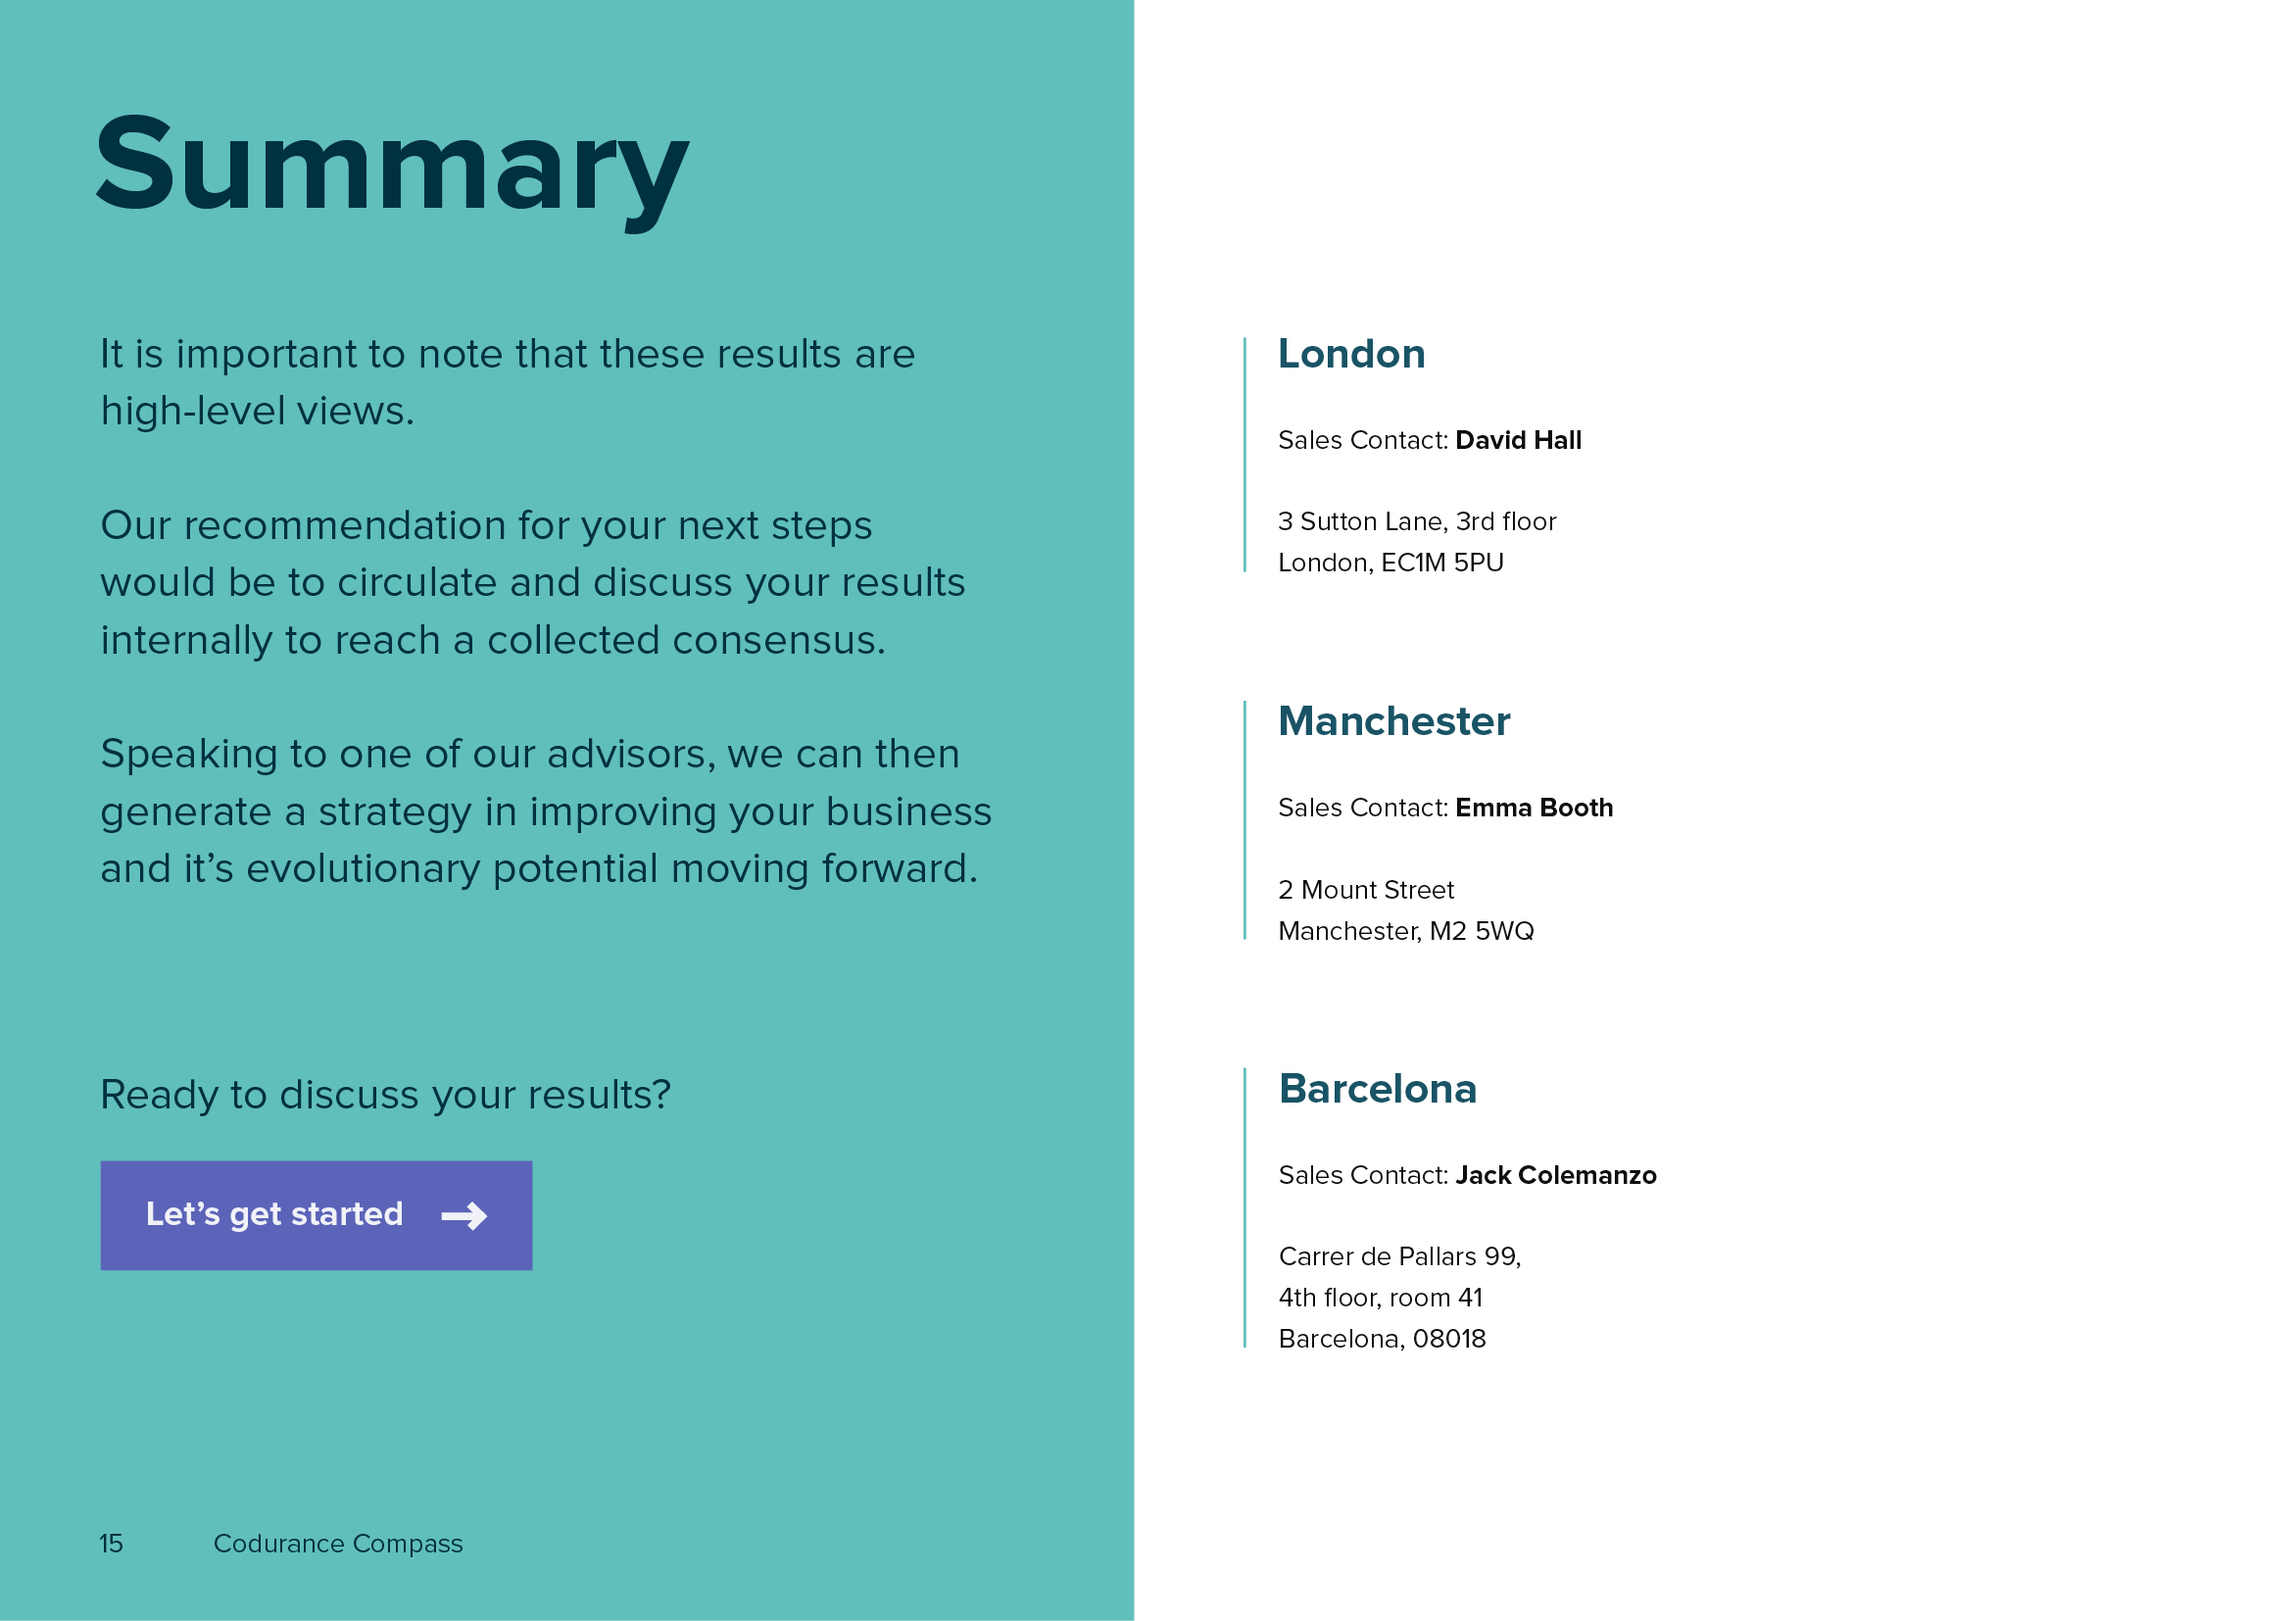
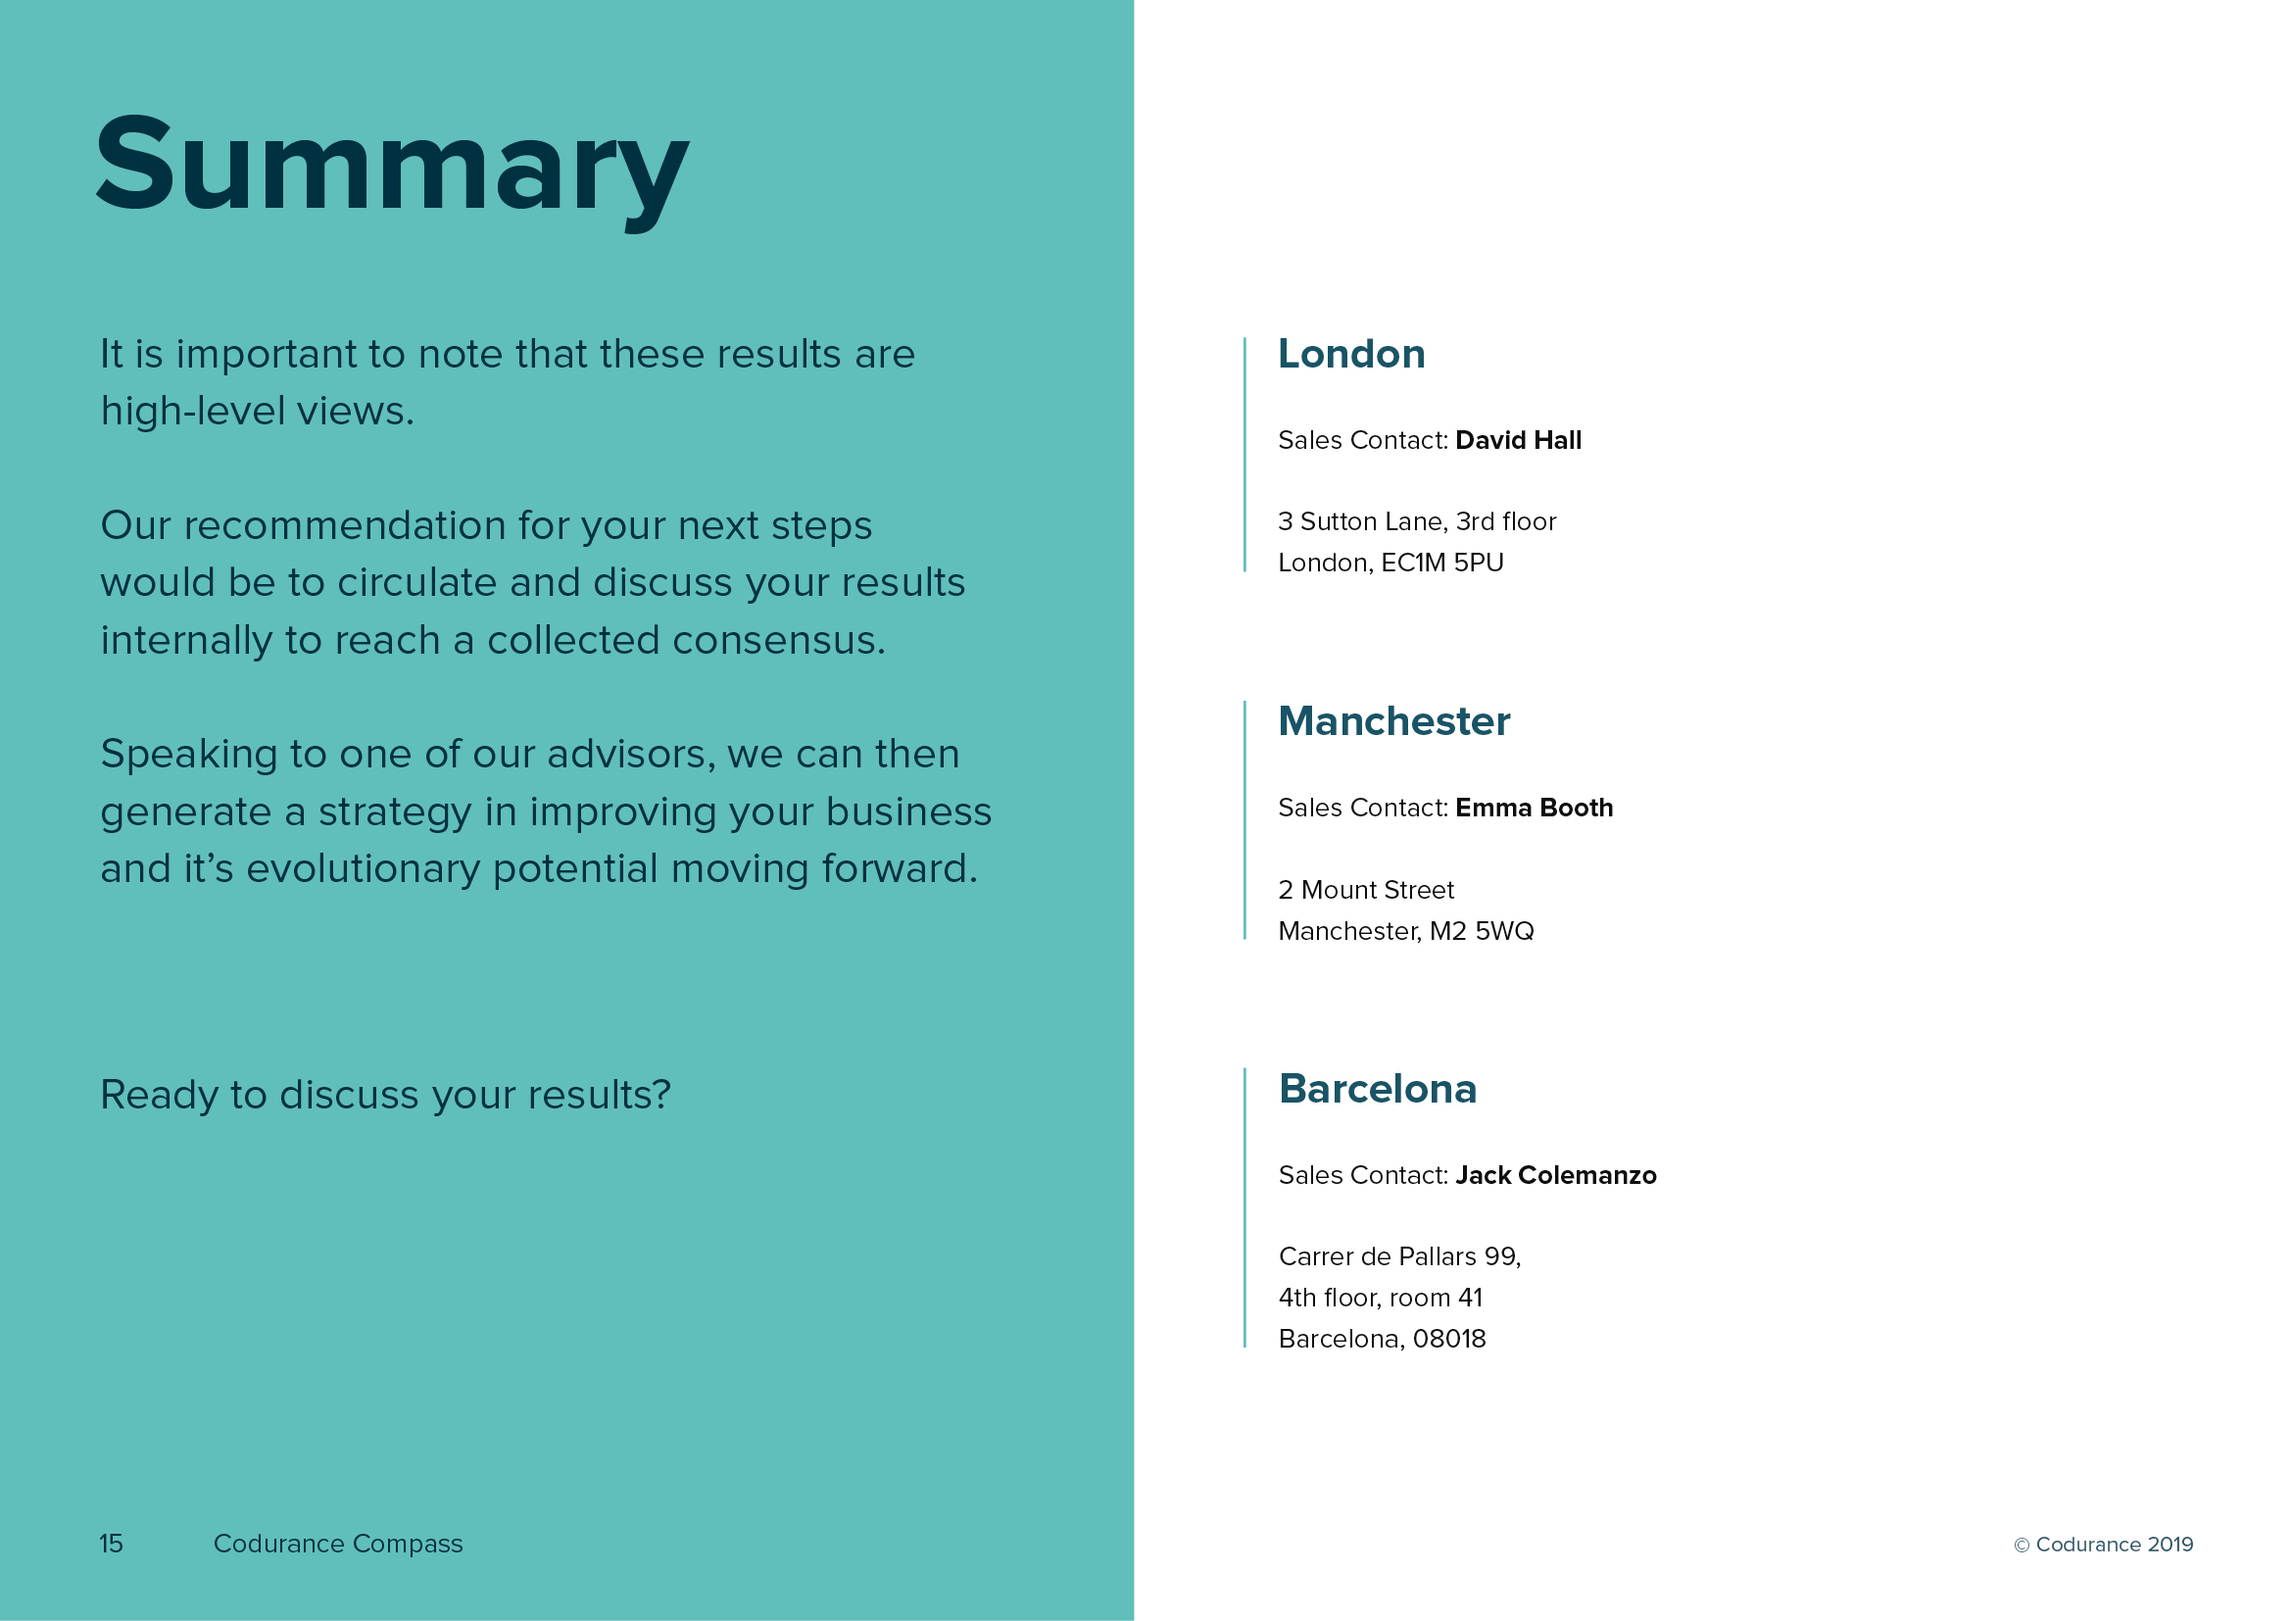
Updated Summary page.
Now includes correct contact details and cta.

Changed region(s): [[0.0312, 0.7092, 0.2497, 0.8017]]

diff --git a/data/css/_summary-page.css/content.css b/data/css/_summary-page.css/content.css
@@ -1,0 +1,83 @@
+.include-phone-icon {
+    display: inline-block;
+    background: url('{#asset /assets/summary-phone.svg @encoding=dataURI}') center no-repeat;
+    width: 3.5mm;
+    height: 3.5mm;
+    padding-right: 4mm;
+    vertical-align: middle;
+    opacity: 0.2;
+    margin-top: -0.5mm;
+}
+.include-email-icon {
+    display: inline-block;
+    background: url('{#asset /assets/summary-email.svg @encoding=dataURI}') center no-repeat;
+    width: 3.4mm;
+    height: 3.4mm;
+    padding-right: 4mm;
+    vertical-align: middle;
+    opacity: 0.2;
+    margin-top: -0.5mm;
+}
+
+.summary-contact {
+    position: absolute;
+    list-style: none;
+    left: 222mm;
+}
+.summary-contact li a {
+    text-decoration: none;
+    color: var(--text-black);
+}
+
+#summary-page_contact-london {
+    top: 64.8mm;
+}
+
+#summary-page_contact-manchester {
+    top: 112.4mm;
+}
+
+#summary-page_contact-barcelona {
+    top: 160.4mm;
+}
+
+#summary-cta {
+    position: absolute;
+    width: 60mm;
+    height: 14.167mm;
+    bottom: 45.4mm;
+    left: 13.1mm;
+    color: #f1f1f8;
+    font-weight: var(--font-weight-bold);
+    font-size: 13pt;
+    font-family: proxima-nova;
+    background: var(--codurance-purple);
+    border: 0;
+    display: flex;
+    flex-direction: row;
+    justify-content: center;
+    align-items: center;
+    text-decoration: none;
+}
+
+#summary-cta i {
+    display: inline-block;
+    width: 5.85mm;
+    height: 3.73mm;
+    margin-left: 6mm;
+    background: url('{#asset /assets/cta-arrow.svg @encoding=dataURI}') center no-repeat;
+}
+
+
+
+
+
+
+
+
+
+
+
+
+
+
